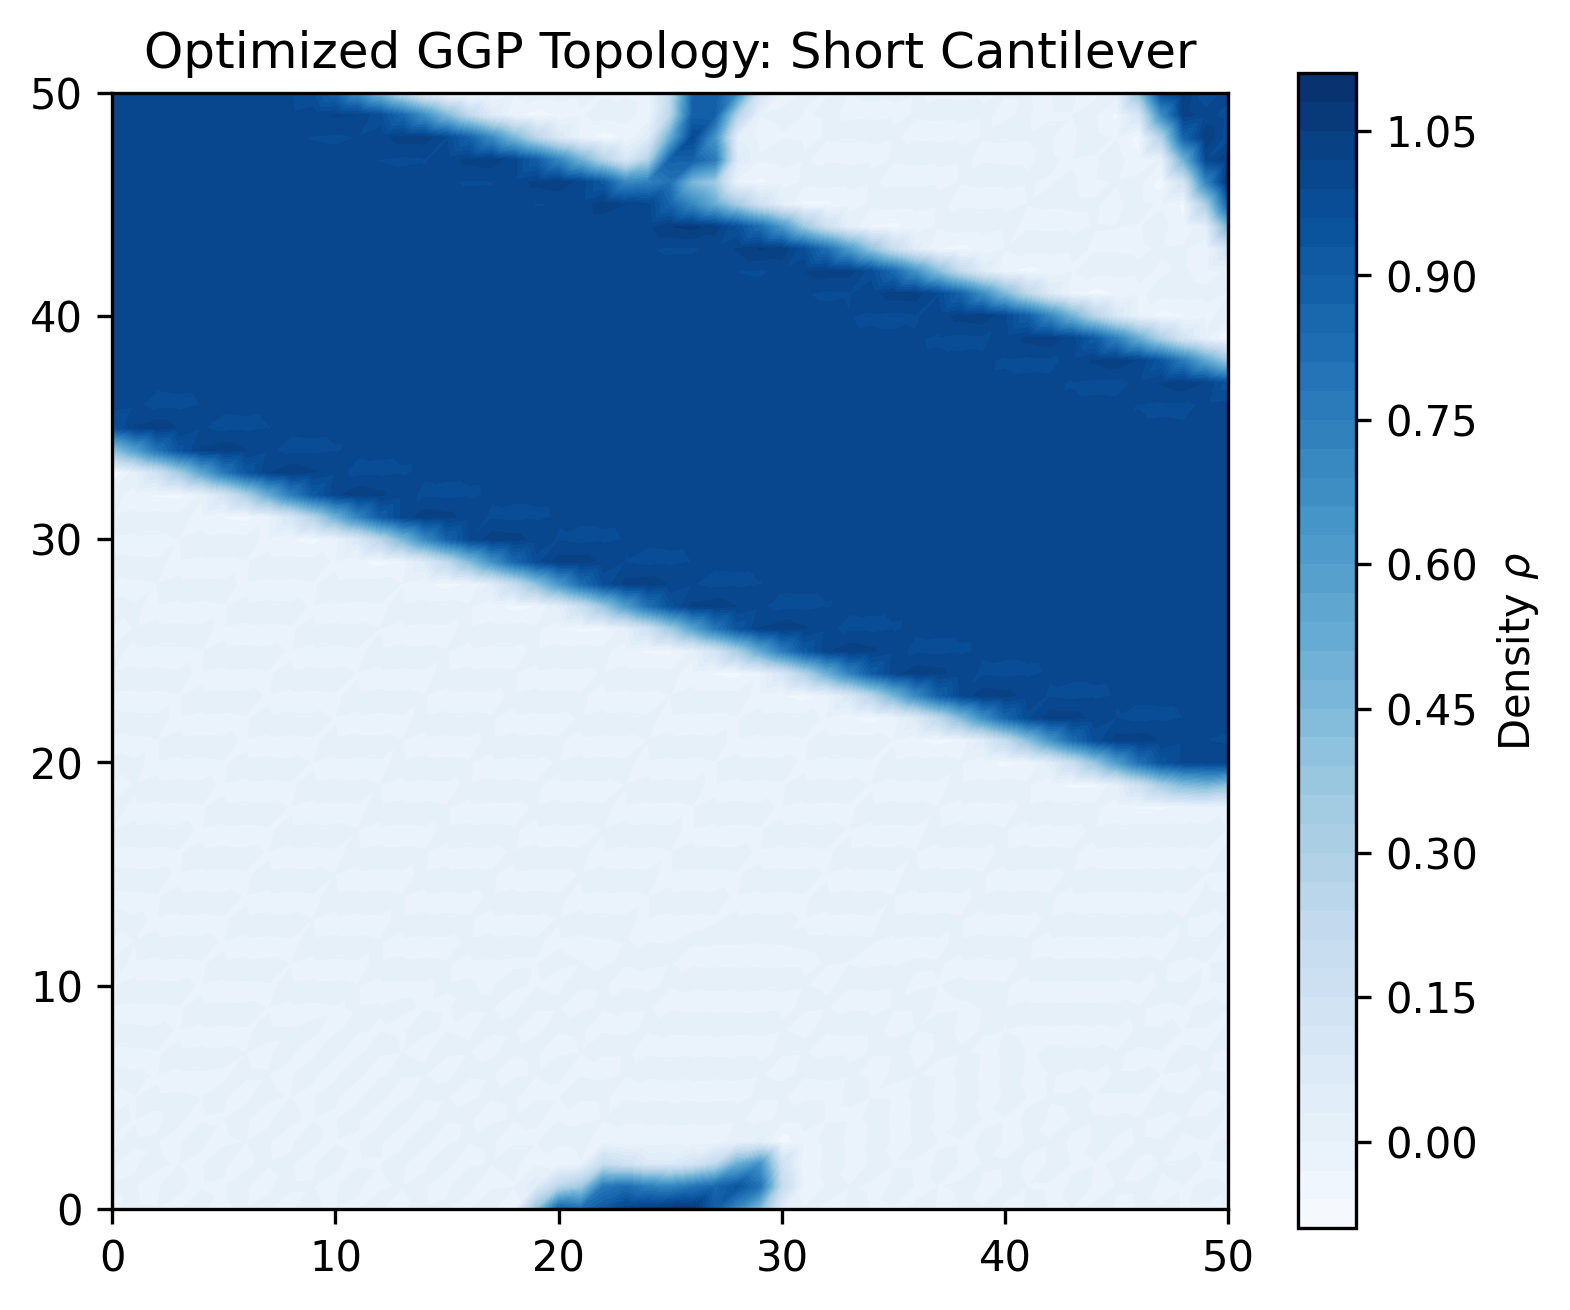
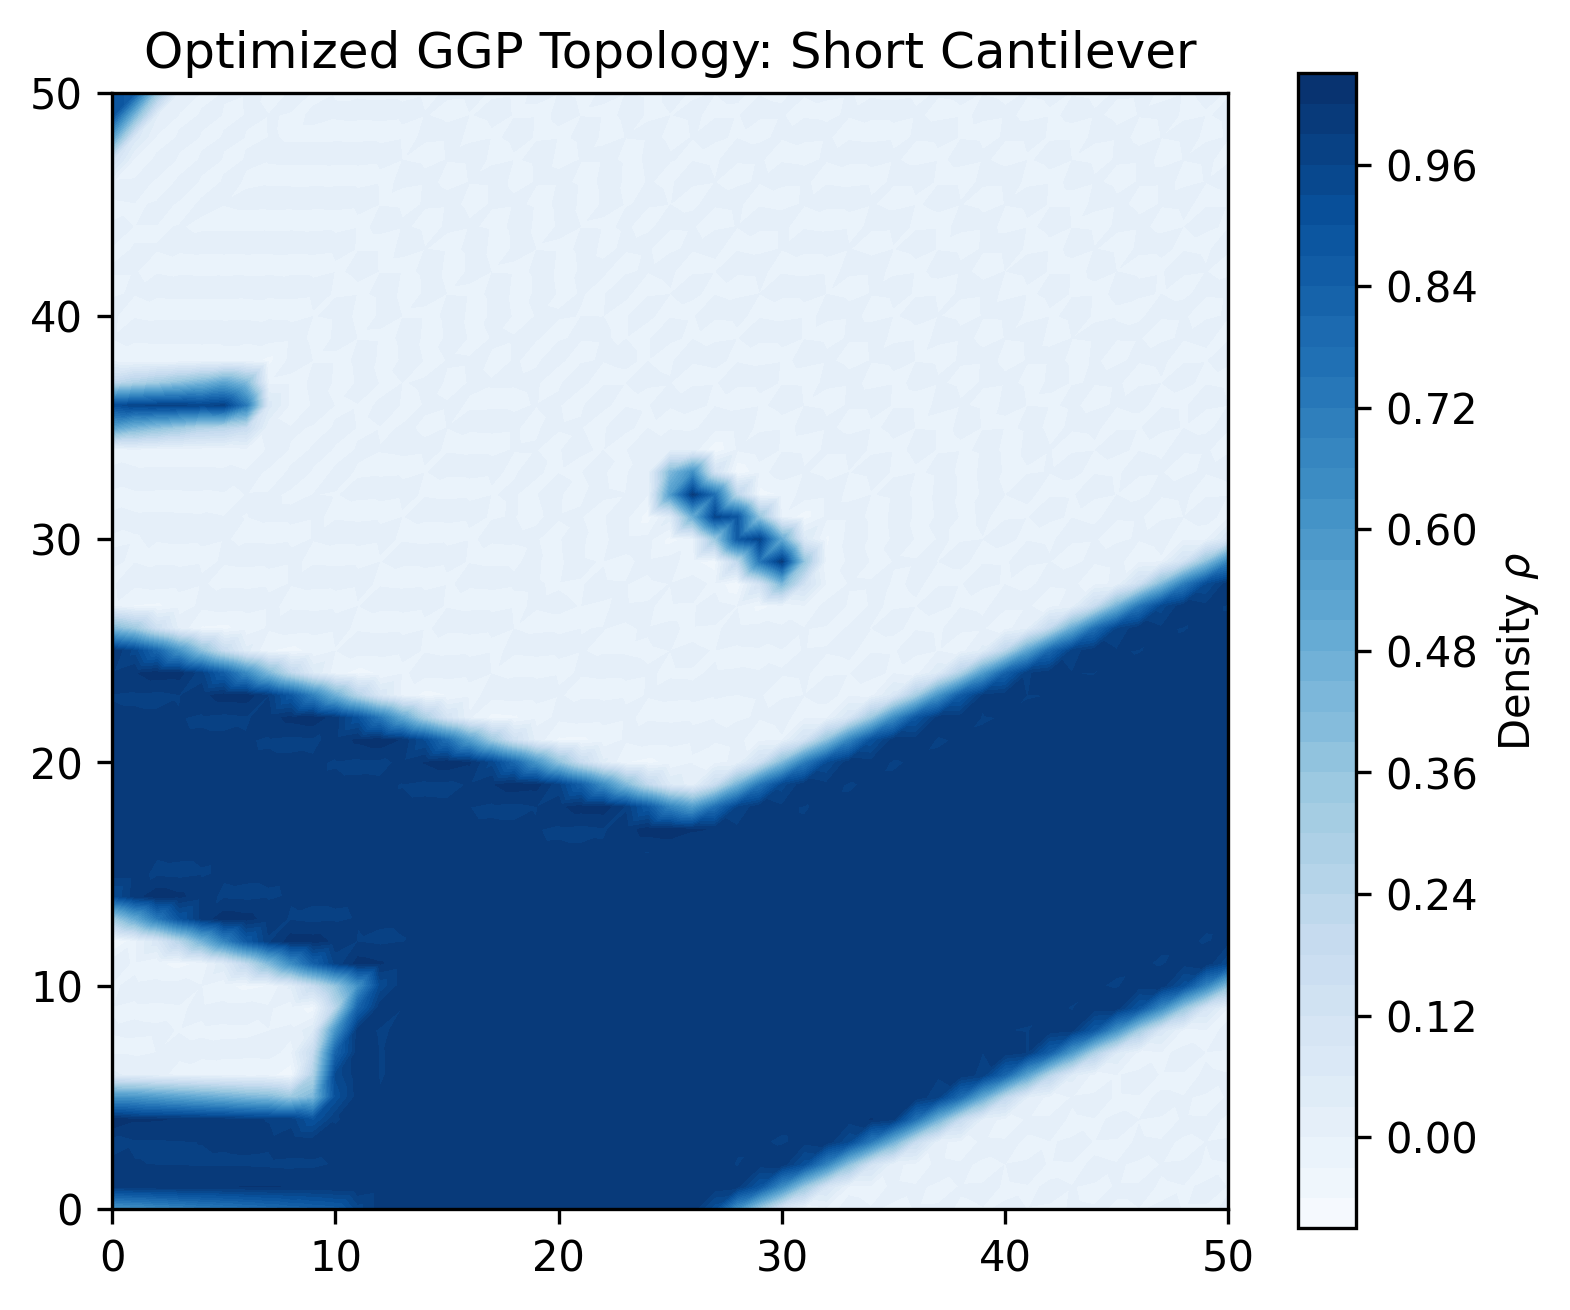
fix: resolve CI dependencies and update high-res converged example images

diff --git a/tests/test_geometry.py b/tests/test_geometry.py
@@ -1,18 +1,19 @@
 import pytest
-import dolfin as df
+from dolfin import *
+from dolfin_adjoint import *
 import numpy as np
 from samo_ggp.geometry.factory import GeometryFactory
 from samo_ggp.geometry.base_mapper import BaseMapper
 from samo_ggp.geometry.ggp_2d_free import GGP2DMapper
 
 def test_geometry_factory():
-    mesh = df.UnitSquareMesh(2, 2)
+    mesh = UnitSquareMesh(2, 2)
     mapper = GeometryFactory.create_mapper("2D_Free", mesh=mesh, num_components=2)
     assert isinstance(mapper, BaseMapper)
     assert isinstance(mapper, GGP2DMapper)
 
 def test_geometry_initial_design():
-    mesh = df.UnitSquareMesh(2, 2)
+    mesh = UnitSquareMesh(2, 2)
     mapper = GeometryFactory.create_mapper("2D_Free", mesh=mesh, num_components=2)
     
     # Expecting 6 parameters per component (Xc, Yc, L, h, theta, Mc)
@@ -20,12 +21,13 @@ def test_geometry_initial_design():
     assert len(x_init) == 12
     
 def test_map_to_density():
-    mesh = df.UnitSquareMesh(10, 10)
+    # Use dolfin_adjoint version of mesh to ensure tape tracking
+    mesh = UnitSquareMesh(10, 10)
     mapper = GeometryFactory.create_mapper("2D_Free", mesh=mesh, num_components=1)
 
-    import dolfin_adjoint as da
     # Test with component that definitely has material
-    ctrls = [da.Constant(0.5), da.Constant(0.5), da.Constant(0.2), da.Constant(0.2), da.Constant(0.0), da.Constant(1.0)]
+    # Variables: Xc, Yc, L, h, theta, Mc
+    ctrls = [Constant(0.5), Constant(0.5), Constant(0.2), Constant(0.2), Constant(0.0), Constant(1.0)]
 
     rho_ufl = mapper.map_to_density(ctrls)
 
@@ -33,13 +35,17 @@ def test_map_to_density():
     # DG0 takes the average over each element. Since the underlying function
     # is bounded [0, 1], its average over any subdomain must also be [0, 1].
     # This avoids the Gibbs overshoots/undershoots of CG1 projection.
-    V = df.FunctionSpace(mesh, "DG", 0)
-    rho_func = df.project(rho_ufl, V)
+    V = FunctionSpace(mesh, "DG", 0)
+    
+    # Project with stop_annotating as we only want to check final density bounds
+    with stop_annotating():
+        rho_func = project(rho_ufl, V)
 
-    # Values must be strictly between 0 and 1
-    # We use a very tight tolerance only for machine epsilon
-    min_val = rho_func.vector().get_local().min()
-    max_val = rho_func.vector().get_local().max()
+        # Values must be strictly between 0 and 1
+        # We use get_local() to ensure we check all values
+        vals = rho_func.vector().get_local()
+        min_val = vals.min()
+        max_val = vals.max()
 
-    assert min_val >= 0.0
-    assert max_val <= 1.0
+        assert min_val >= 0.0
+        assert max_val <= 1.0

diff --git a/tests/test_physics.py b/tests/test_physics.py
@@ -1,22 +1,22 @@
 import pytest
-import dolfin as df
-from dolfin_adjoint import Constant, DirichletBC, stop_annotating
+from dolfin import *
+from dolfin_adjoint import *
 from samo_ggp.physics.factory import PhysicsFactory
 from samo_ggp.physics.elasticity_2d import LinearElasticitySolver
 
 def setup_solver():
-    mesh = df.UnitSquareMesh(4, 4)
-    V_u = df.VectorFunctionSpace(mesh, "CG", 1)
-    def left_boundary(x, on_boundary): return on_boundary and df.near(x[0], 0.0)
+    mesh = UnitSquareMesh(4, 4)
+    V_u = VectorFunctionSpace(mesh, "CG", 1)
+    def left_boundary(x, on_boundary): return on_boundary and near(x[0], 0.0)
     bc = [DirichletBC(V_u, Constant((0.0, 0.0)), left_boundary)]
     
     # Mark the right boundary for the load
-    boundaries = df.MeshFunction("size_t", mesh, mesh.topology().dim() - 1)
+    boundaries = MeshFunction("size_t", mesh, mesh.topology().dim() - 1)
     boundaries.set_all(0)
-    class RightBoundary(df.SubDomain):
-        def inside(self, x, on_boundary): return df.near(x[0], 1.0)
+    class RightBoundary(SubDomain):
+        def inside(self, x, on_boundary): return near(x[0], 1.0)
     RightBoundary().mark(boundaries, 1)
-    ds_load = df.Measure("ds", domain=mesh, subdomain_data=boundaries)
+    ds_load = Measure("ds", domain=mesh, subdomain_data=boundaries)
     L_rhs_vec = Constant((0.0, -1.0))
     
     solver = PhysicsFactory.create_solver("Elasticity_2D", V_u=V_u, bc=bc, ds_load=ds_load, L_rhs_vec=L_rhs_vec)
@@ -29,8 +29,8 @@ def test_physics_factory():
 def test_solve_and_compliance():
     solver, mesh = setup_solver()
     
-    V_rho = df.FunctionSpace(mesh, "CG", 1)
-    rho = df.interpolate(df.Constant(0.5), V_rho)
+    V_rho = FunctionSpace(mesh, "CG", 1)
+    rho = interpolate(Constant(0.5), V_rho)
     
     with stop_annotating():
         u = solver.solve(rho)

diff --git a/tests/test_gemseo.py b/tests/test_gemseo.py
@@ -1,7 +1,7 @@
 import pytest
-import dolfin as df
+from dolfin import *
+from dolfin_adjoint import *
 import numpy as np
-from dolfin_adjoint import Constant, DirichletBC, UnitSquareMesh
 from samo_ggp.geometry.factory import GeometryFactory
 from samo_ggp.physics.factory import PhysicsFactory
 from samo_ggp.gemseo_wrappers.macro_discipline import GGPMacroDiscipline
@@ -11,16 +11,16 @@ from gemseo import create_scenario
 def test_macro_discipline_execution():
     """Verify that the MacroDiscipline successfully executes and generates gradients."""
     mesh = UnitSquareMesh(2, 2)
-    V_u = df.VectorFunctionSpace(mesh, "CG", 1)
-    def left_boundary(x, on_boundary): return on_boundary and df.near(x[0], 0.0)
+    V_u = VectorFunctionSpace(mesh, "CG", 1)
+    def left_boundary(x, on_boundary): return on_boundary and near(x[0], 0.0)
     bc = [DirichletBC(V_u, Constant((0.0, 0.0)), left_boundary)]
     
-    boundaries = df.MeshFunction("size_t", mesh, mesh.topology().dim() - 1)
+    boundaries = MeshFunction("size_t", mesh, mesh.topology().dim() - 1)
     boundaries.set_all(0)
-    class RightBoundary(df.SubDomain):
-        def inside(self, x, on_boundary): return df.near(x[0], 1.0)
+    class RightBoundary(SubDomain):
+        def inside(self, x, on_boundary): return near(x[0], 1.0)
     RightBoundary().mark(boundaries, 1)
-    ds_load = df.Measure("ds", domain=mesh, subdomain_data=boundaries)
+    ds_load = Measure("ds", domain=mesh, subdomain_data=boundaries)
     
     L_rhs_vec = Constant((0.0, -1.0))
     